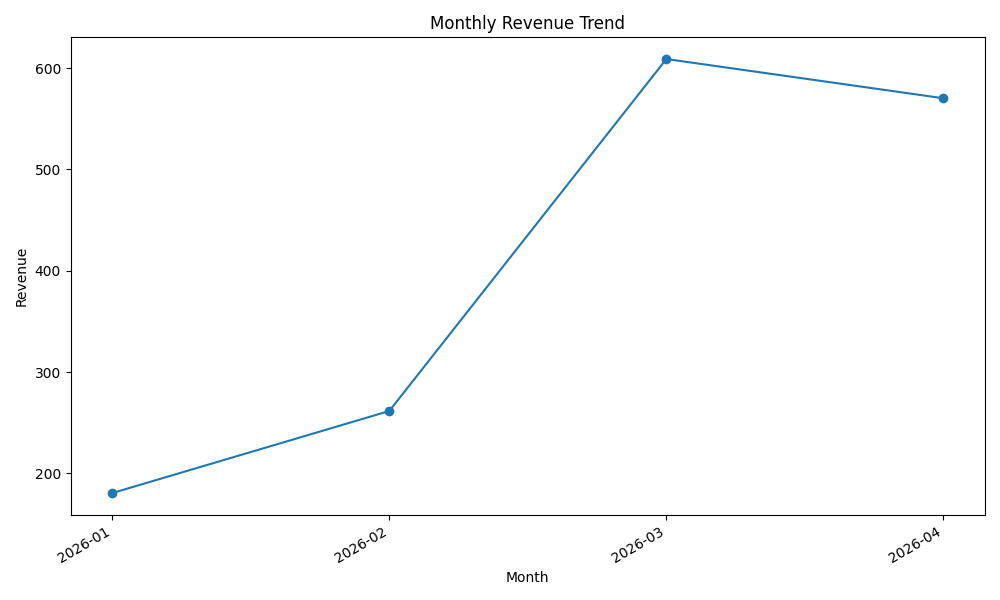
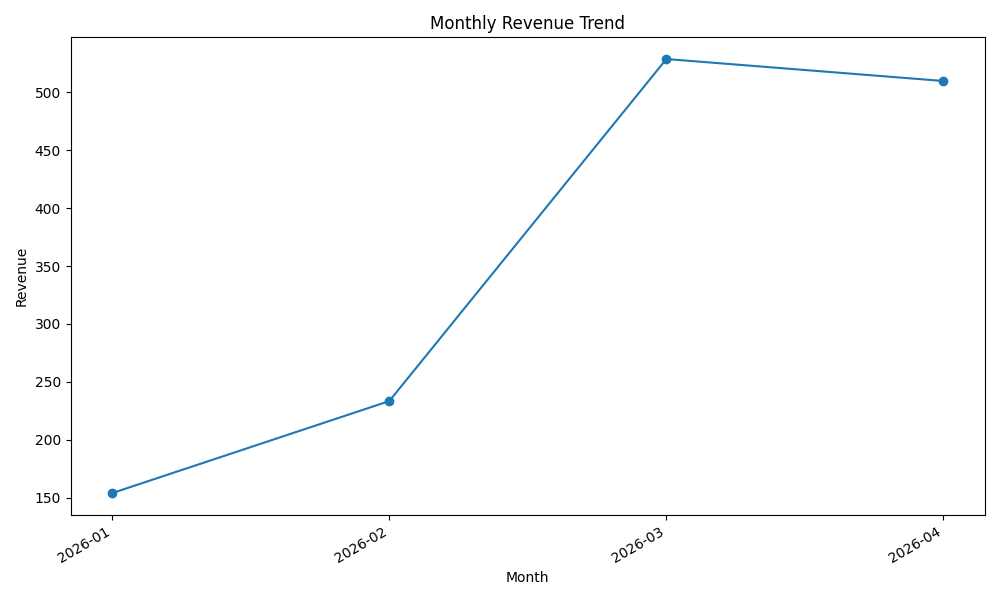
Add dashboard summary and standardize revenue definition

diff --git a/scripts/generate_reports.py b/scripts/generate_reports.py
@@ -65,8 +65,10 @@ REPORT_QUERIES = {
         SELECT
             SUBSTR(o.order_date, 1, 7) AS order_month,
             COUNT(DISTINCT o.order_id) AS completed_orders,
-            ROUND(SUM(o.total), 2) AS total_revenue
+            ROUND(SUM(oi.line_total), 2) AS total_revenue
         FROM orders o
+        JOIN order_items oi
+             ON o.order_id = oi.order_id
         WHERE o.status = 'completed'
         GROUP BY order_month
         ORDER BY order_month;

diff --git a/reports/dashboard_summary.md b/reports/dashboard_summary.md
@@ -1,0 +1,139 @@
+# Camping Store Dashboard Summary
+
+## Purpose
+
+This dashboard summary provides a business-facing overview of the current generated sample dataset for the camping store sales data pipeline. It summarizes key sales performance, product performance, customer spending, and monthly revenue trends based on the generated CSV reports.
+
+The goal is to make the project outputs easier to understand for business users without requiring them to read raw CSV files or inspect the database directly.
+
+Important: the current dataset is synthetic sample data created for a portfolio project. The findings below should be interpreted as sample business insights, not actual customer behavior or real business revenue.
+
+## Current Dashboard Scope
+
+This summary is based on the current local data pipeline:
+
+Raw CSV Data -> SQLite Database -> Data Validation -> CSV Reports -> PNG Charts -> Dashboard Summary
+
+This dashboard is based on simulated local data generated by the project pipeline. It demonstrates how business reporting would work once connected to real operational data.
+
+The current dashboard focuses on:
+
+- Revenue by product category
+- Top products by completed-order revenue
+- Top customers by completed-order spending
+- Monthly revenue trend
+- Data reliability based on validation checks
+
+## Key Metrics Overview
+
+| Metric | Source Report | Business Meaning |
+|---|---|---|
+| Revenue by Category | `reports/revenue_by_category.csv` | Shows which product categories generate the most completed-order merchandise revenue |
+| Top Products by Revenue | `reports/top_products_by_revenue.csv` | Identifies the best-performing products by merchandise revenue |
+| Top Customers by Spend | `reports/top_customers_by_spend.csv` | Highlights high-value customers based on completed orders |
+| Monthly Revenue Trend | `reports/monthly_revenue_trend.csv` | Shows how merchandise revenue changes over time |
+| Data Quality Status | `reports/data_quality_report.md` | Confirms whether the data is reliable enough for reporting |
+
+## Executive Summary
+
+Based on the current generated sample dataset, the pipeline reports **$1,425.83** in completed-order merchandise revenue. This revenue figure excludes simulated tax and shipping fees so that product, category, and monthly revenue reports use a consistent reporting definition.
+
+The strongest product category in the sample dataset is **camping cookware**, generating **$644.79** in merchandise revenue. The top individual product is **Compact Camping Cookware Kit**, with **$299.94** in revenue and **6 units sold**.
+
+Monthly merchandise revenue increased from January to March, then slightly decreased in April. This suggests a sample trend where sales activity grows during the first quarter and softens slightly in the following month.
+
+## Key Findings
+
+### 1. Category Performance
+
+The leading revenue category is **camping cookware**, with **$644.79** in merchandise revenue across **21 units sold**. This category contributes the largest share of product-level revenue in the current sample dataset.
+
+Other notable categories include:
+
+- **Camping utensils**: $278.33 revenue, 17 units sold
+- **Camping drinkware**: $204.90 revenue, 10 units sold
+- **Camping dinnerware**: $159.93 revenue, 7 units sold
+
+### 2. Product Performance
+
+The strongest individual products by completed-order merchandise revenue are:
+
+| Rank | Product | Category | Revenue | Units Sold |
+|---|---|---|---:|---:|
+| 1 | Compact Camping Cookware Kit | camping cookware | $299.94 | 6 |
+| 2 | Nonstick Portable Fry Pan | camping cookware | $224.91 | 9 |
+| 3 | Portable Camping Kettle | camping cookware | $179.94 | 6 |
+| 4 | BPA-Free Trail Water Bottle | camping drinkware | $153.93 | 7 |
+| 5 | Stainless Steel Camping Utensil Set | camping utensils | $151.92 | 8 |
+
+The top three products all belong to the **camping cookware** category, which explains why camping cookware is the strongest revenue category in the current report.
+
+### 3. Customer Spending
+
+The highest-spending customers in the current sample dataset are:
+
+| Rank | Customer | State | Completed Orders | Total Spend |
+|---|---|---|---:|---:|
+| 1 | Justin Moore | CA | 2 | $299.93 |
+| 2 | Ryan Taylor | NV | 3 | $263.74 |
+| 3 | Natalie Davis | CA | 2 | $213.96 |
+
+Customer spend is based on completed orders. This report can help identify high-value customers for future retention analysis, customer segmentation, or marketing campaign targeting.
+
+### 4. Monthly Revenue Trend
+
+Monthly completed-order merchandise revenue is summarized below:
+
+| Month | Completed Orders | Merchandise Revenue |
+|---|---:|---:|
+| 2026-01 | 3 | $153.93 |
+| 2026-02 | 3 | $233.38 |
+| 2026-03 | 7 | $528.74 |
+| 2026-04 | 5 | $509.78 |
+
+Revenue increased from January through March, then slightly decreased in April. March has the highest monthly merchandise revenue in the current sample dataset.
+
+## Business Interpretation
+
+The current reports help answer the following business questions:
+
+1. Which product categories are driving revenue?
+2. Which individual products are performing best?
+3. Which customers contribute the most completed-order revenue?
+4. Is revenue increasing, decreasing, or staying stable over time?
+5. Can the business trust the reports based on validation checks?
+
+## Business Recommendations
+
+1. **Prioritize camping cookware in product planning.**  
+   Camping cookware is the strongest category by revenue, and the top three products all come from this category. In a real business setting, this category would be a strong candidate for inventory planning, promotion, or bundle testing.
+
+2. **Monitor high-performing products separately from category totals.**  
+   The Compact Camping Cookware Kit, Nonstick Portable Fry Pan, and Portable Camping Kettle are the main drivers of cookware revenue. Tracking these products individually can help the business avoid stockouts and identify which products deserve marketing attention.
+
+3. **Use customer spend reports for retention analysis.**  
+   The top customer report highlights customers with repeated or high-value completed orders. In a real system, this could support loyalty campaigns, customer segmentation, or personalized offers.
+
+4. **Track monthly trend changes over time.**  
+   March is the strongest month in the sample dataset, while April shows a slight decrease. A future version of the project should compare more months of data to determine whether this is seasonality, random sample variation, or a real demand shift.
+
+5. **Keep revenue definitions consistent across reports.**  
+   This dashboard uses completed-order merchandise revenue excluding simulated tax and shipping. Keeping this definition consistent makes the reports easier to validate and prevents misleading comparisons across category, product, and monthly views.
+
+## Output Files Used
+
+The dashboard summary is supported by the following generated files:
+
+- `reports/revenue_by_category.csv`
+- `reports/top_products_by_revenue.csv`
+- `reports/top_customers_by_spend.csv`
+- `reports/monthly_revenue_trend.csv`
+- `reports/charts/revenue_by_category.png`
+- `reports/charts/top_products_by_revenue.png`
+- `reports/charts/top_customers_by_spend.png`
+- `reports/charts/monthly_revenue_trend.png`
+- `reports/data_quality_report.md`
+
+## Notes
+
+This is a static dashboard summary for Week 2 documentation. A future user-facing dashboard, such as a Streamlit dashboard, is planned for Week 3.
